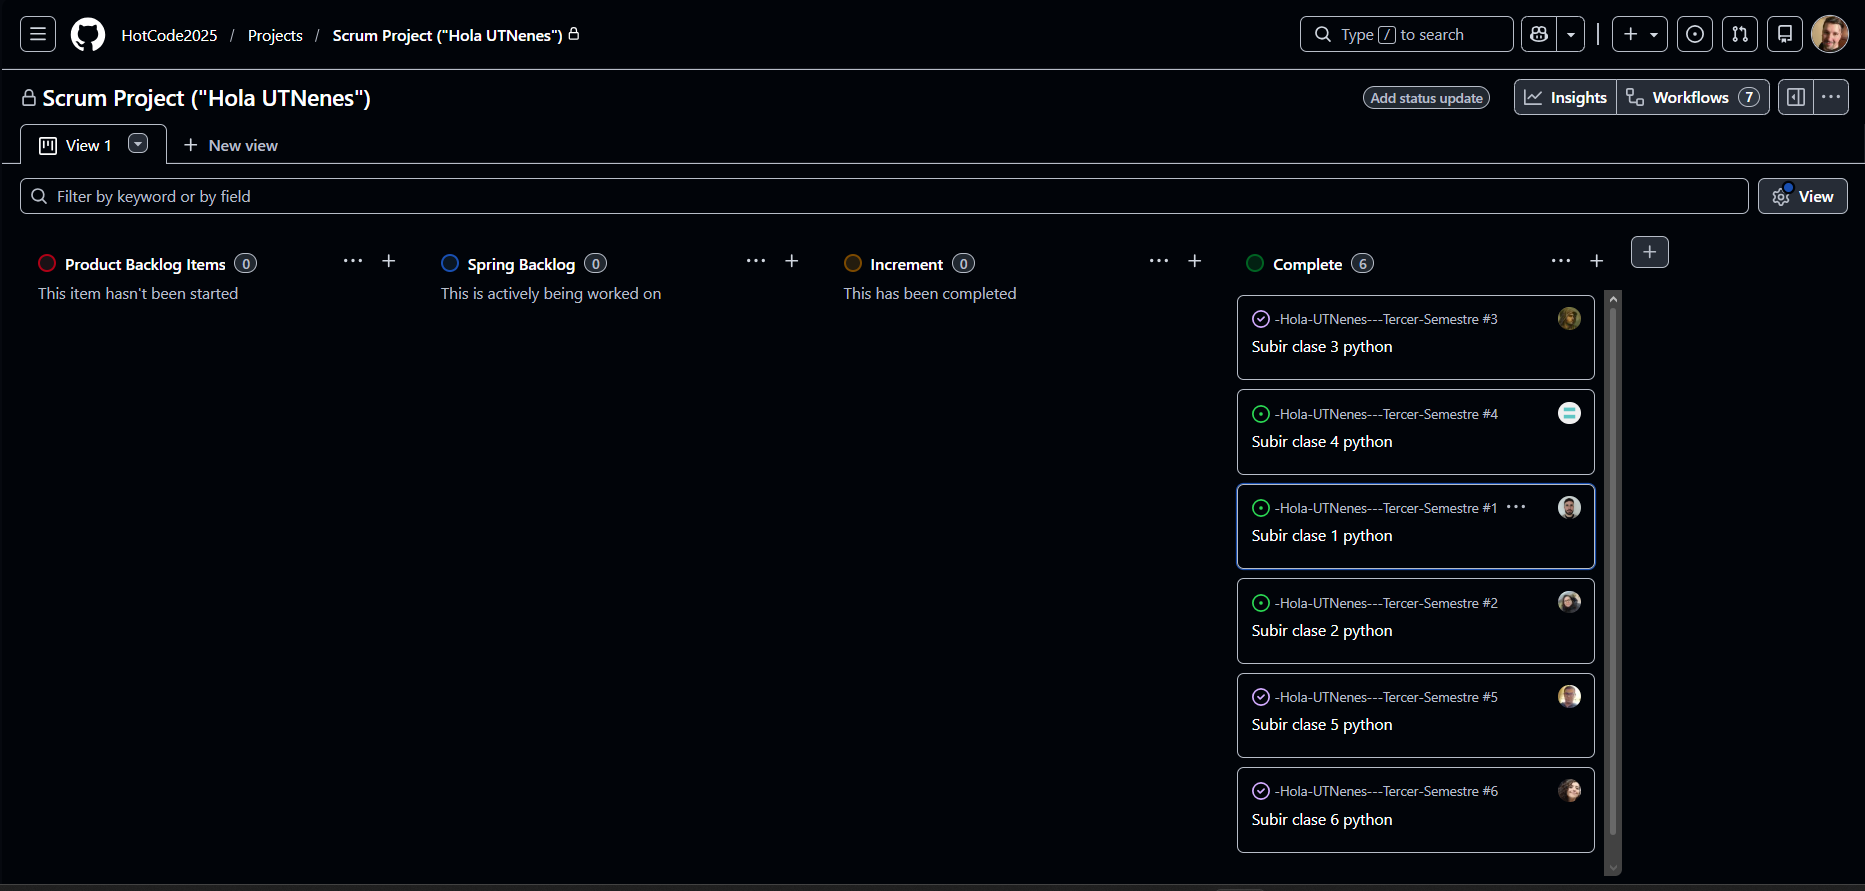
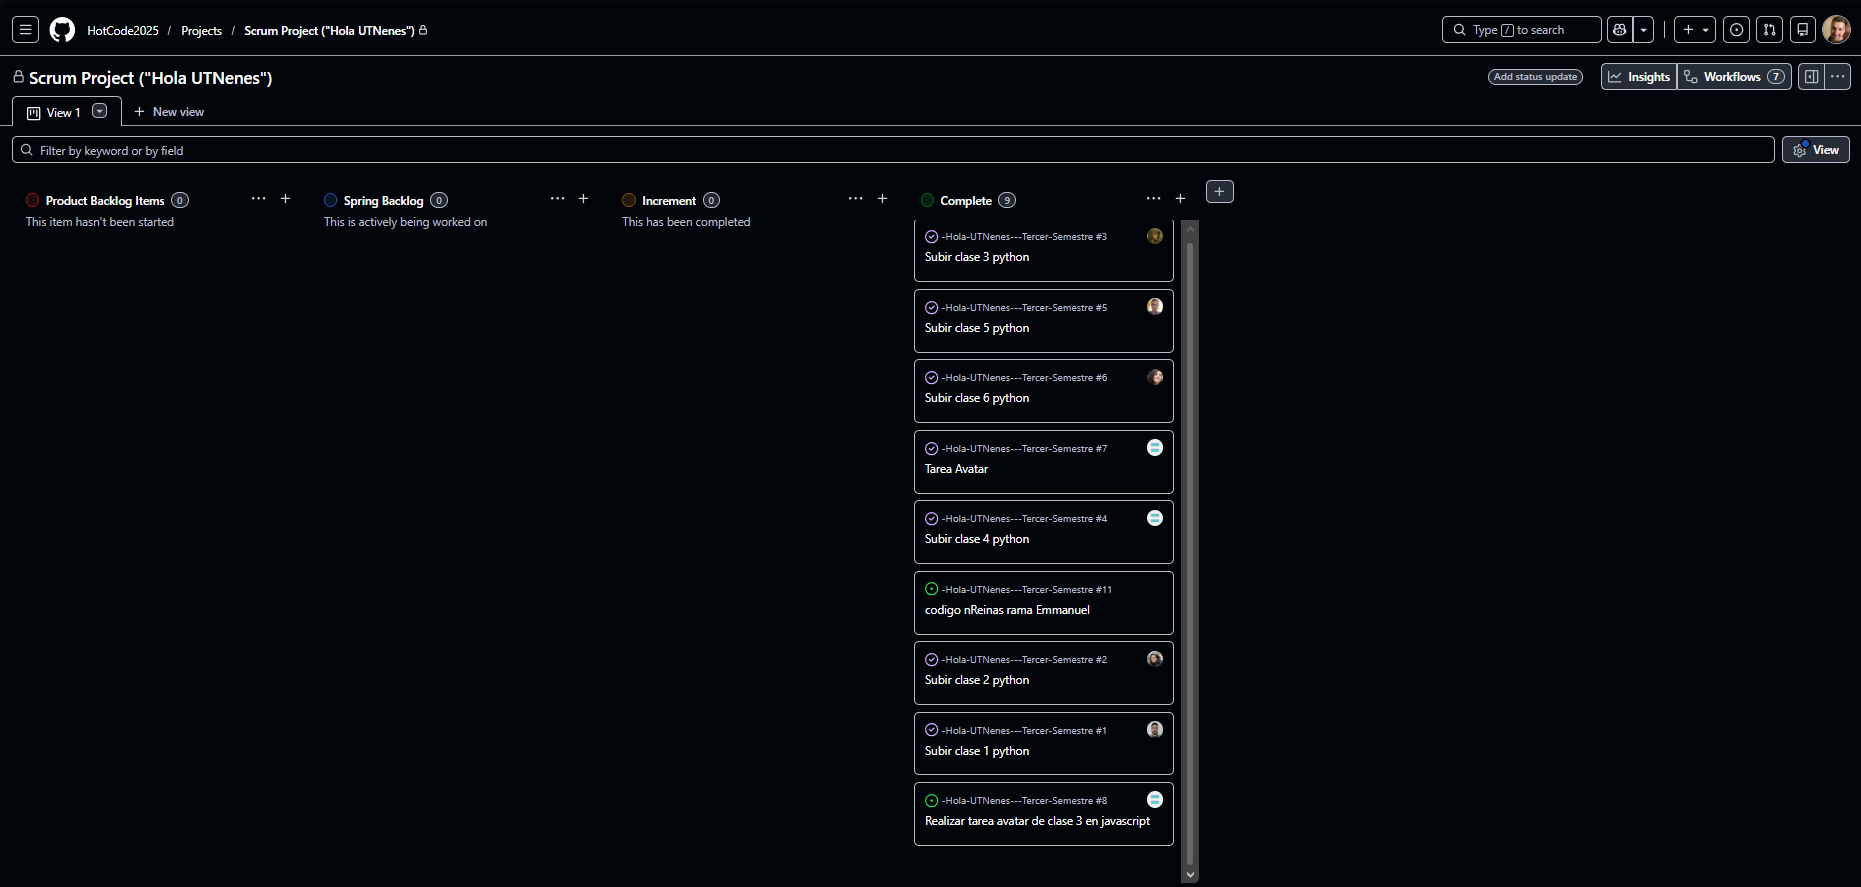
todas las tarjetas listas

Changed region(s): [[0.0, 0.0, 1.0, 1.0], [0.8726, 0.2435, 0.9038, 0.3044]]

diff --git a/trabajoScrum/README.md b/trabajoScrum/README.md
@@ -74,7 +74,7 @@ Despues de ir completando sus tareas, van pusheando a sus ramas, para evitar cre
 
 ```
 
-Se van movilizando las tarjetas segun van terminandose, hasta que estan todas en el cuadro final, finalizadas , dejando asi elproyecto en su fase de finalizacion con exito
+Se van movilizando las tarjetas segun van terminandose, hasta que estan todas en el cuadro final con las tarjetas de todos los miembros, dejando asi el proyecto en su fase de finalizacion con exito
 
 ```
 